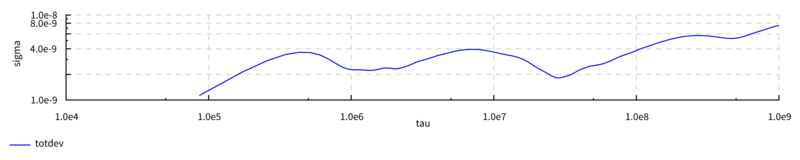
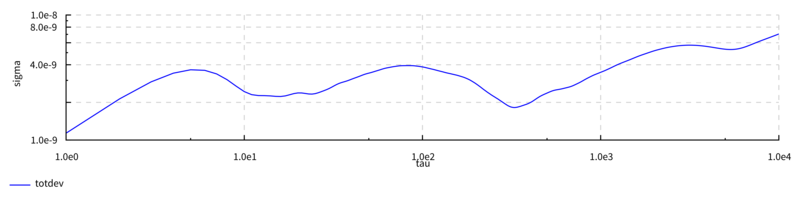
Regenerate charts and work on README.

diff --git a/README.md b/README.md
@@ -7,22 +7,48 @@ stability of clocks in terms of their
 [**Allan deviation**](http://en.wikipedia.org/wiki/Allan_variance).
 It has the following subcommands:
 
-1. `adev`: Read a phase error series from standard input and emit
-   tau/sigma ADEV pairs to standard output as CSV.  Uses the standard
-   overlapped Allan deviation estimator.
-2. `theobr`: Like `adev` but uses TheoBR, a statistic for that
-   produces better estimates of long-term stability (but is much
-   slower than ADEV).
-3. `loglog`: Generate a tau/sigma log-log chart from the output of
-   `adev` or `theobr`.
-4. `chart`: Generate a linear chart from time series data.  Meant for
-   plotting time or frequency error series.
-5. `noise`: A random spectral noise generator for white, flicker and
-   random walk frequency noise types, and mixes thereof.
-6. `convert`: Conversion between phase/frequency data series and units.
+## Subcommands
 
-This tool has so far been written primarily with simplicity in mind,
-not performance.
+### Statistics
+
+All of these commands take time error data as input, one item per line:
+
+Command            | Description
+-------------------|---------------------------------------------------------
+`tau-sigma adev`   | Allan deviation (overlapped estimator)
+`tau-sigma mdev`   | Modified Allan deviation
+`tau-sigma tdev`   | Time deviation
+`tau-sigma hdev`   | Hadamard deviation (overlapped estimator)
+`tau-sigma totdev` | Total deviation
+`tau-sigma theobr` | TheoBR deviation (bias-reduced Theo1)
+`tau-sigma theoh`  | TheoH deviation (Allan at low taus, TheoBR at high taus)
+
+Output is CSV with "tau" and "sigma" column headers.
+
+
+### Charting
+
+This isn't meant to be a full-powered charting tool, but it's useful
+to be able to generate quick-and-dirty plots.
+
+The `tau-sigma chart` command generate a line chart from time series
+data.  This is meant for plotting time or frequency error series.
+
+The `tau-sigma loglog` commands generates a tau/sigma log-log chart
+from the output of the stability statistic subcommands.  The data is
+plotted with square decades to help judge the slopes of the curve.
+
+
+### Noise
+
+The `tau-sigma noise` command generates random spectral noises and
+mixes thereof.
+
+
+### Convert
+
+The `tau-sigma convert` command converts between phase/frequency data
+series and units.
 
 
 ## Examples
@@ -62,19 +88,19 @@ example: the 1779/80 Greenwich trial of
 one of the very earliest successful precision watches.  Read more in
 [`example-data/README.md`](example-data/README.md).
 
-![Arnold #36 TheoBR](images/arnold36_theobr.png)
+![Arnold #36 TheoBR](images/arnold36_theoh.png)
 
-Daily Rates                             | Time error                          | ADEV
-----------------------------------------|-------------------------------------|----------------------------------
-![rates](images/arnold36_frequency.png) | ![phase](images/arnold36_phase.png) | ![adev](images/arnold36_adev.png)
+Daily Rates                             | Time error                         
+----------------------------------------|------------------------------------
+![rates](images/arnold36_frequency.png) | ![phase](images/arnold36_phase.png)
 
 
-## Correctness
+## Performance and correctness
+
+This tool has so far been written primarily with simplicity and
+correctness in mind, not performance.
 
 I do not warranty that the results of this program are always correct.
-If you crash a satellite or something because of an error in my
-program that's your fault.
-
 Nevertheless, I have taken care to test that the results at least look
 sensible.  The following properties are tested:
 
@@ -83,7 +109,10 @@ sensible.  The following properties are tested:
    two public data sets.  See:
   * [`NBSSpec.hs`](test/TauSigma/Statistics/NBSSpec.hs)
   * [`RileySpec.hs`](test/TauSigma/Statistics/RileySpec.hs)
-2. There's also tests that check that the slopes of the statistics
+2. The Theo1 statistic is tested against an example in Appendix A of
+   Howe (2006).  See:
+  * [`HoweSpec.hs`](test/TauSigma/Statistics/HoweSpec.hs)
+3. There's also tests that check that the slopes of the statistics
    are more or less what they should be on various noise types.   See:
   * [`AllanSpec.hs`](test/TauSigma/Statistics/AllanSpec.hs)
   * [`HadamardSpec.hs`](test/TauSigma/Statistics/HadamardSpec.hs)
@@ -91,8 +120,9 @@ sensible.  The following properties are tested:
   * [`TotalSpec.hs`](test/TauSigma/Statistics/TotalSpec.hs)
 
 Not all statistics are subjected to all the tests just yet.  In
-particular, I don't have example data sets of the TheoBR statistic to
-compare against.  It passes its slope tests but *caveat emptor*.
+particular, I don't have example data sets of the TheoBR or TheoH
+statistics to compare against.  (These are derived from the Allan and
+Theo1 deviations, which I do test.)
 
 
 ## Compilation and Installation
@@ -124,9 +154,9 @@ in Unix and OS X systems).
 
 ## References
 
-* Howe, D.A. and T.N. Tasset.  2004.
-  ["Theo1: Characterization of very long-term frequency stability."](http://tf.nist.gov/timefreq/general/pdf/1990.pdf)
-  *Proceedings of the 18th European Frequency and Time Forum (2004)*.
+* Howe, D.A. 2006.
+  ["TheoH: a hybrid, high-confidence statistic that improves on the Allan deviation."](http://tf.nist.gov/timefreq/general/pdf/1990.pdf)
+  *Metrologia* 43 (2006) S322-331.
 * Riley, William and David A. Howe.  2008.
   [*Handbook of Frequency Stability Analysis*](http://tf.nist.gov/general/pdf/2220.pdf).
   National Institute of Standards and Technology Special Publication

diff --git a/example-data/README.md b/example-data/README.md
@@ -44,8 +44,8 @@ interested in here is:
 1. The approximate inflection points the stability curve;
 2. The order of magnitude of the stability values.
 
-So the TheoBR chart suggests this watch could keep its initial rate to
-within about 45 seconds (2 standard deviations) for 60 days, but for
+So the TheoH chart suggests this watch could keep its initial rate to
+within about 30 seconds (2 standard deviations) for 40 days, but for
 periods longer than that its rates went on a random walk or a
 deterministic drift.
 
@@ -53,7 +53,8 @@ deterministic drift.
 
 ![Arnold #36 time errors](../images/arnold36_phase.png)
 
-![Arnold #36 TheoBR](../images/arnold36_theobr.png)
+![Arnold #36 TheoH](../images/arnold36_theoh.png)
+
 
 
 ## Earth Rotation, 1962-2015
